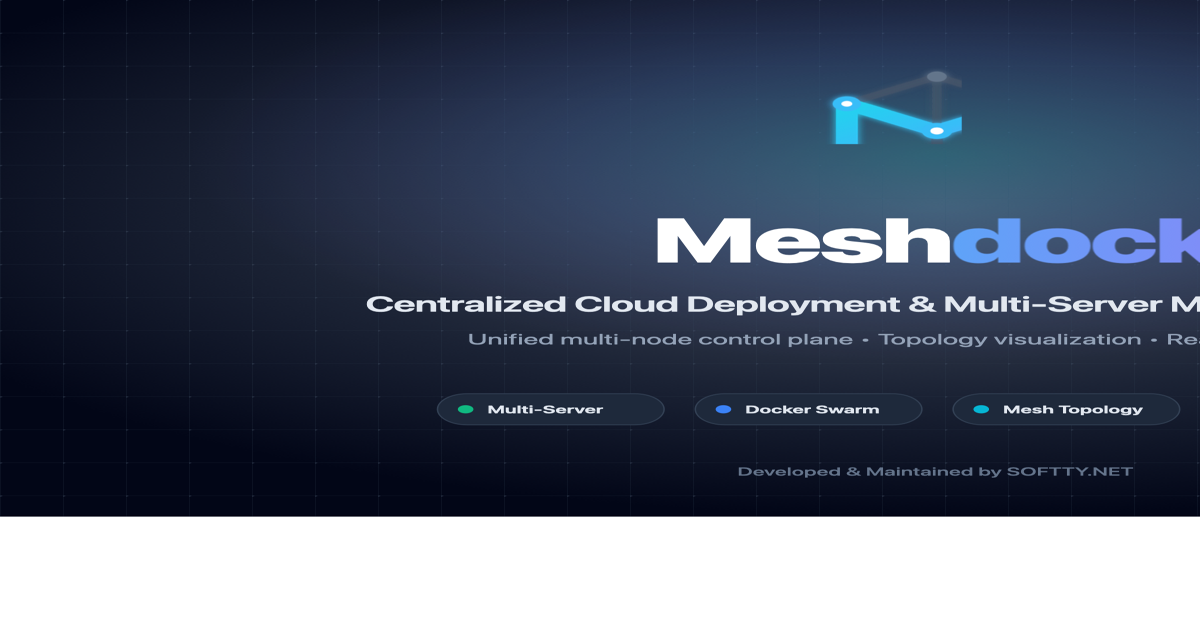
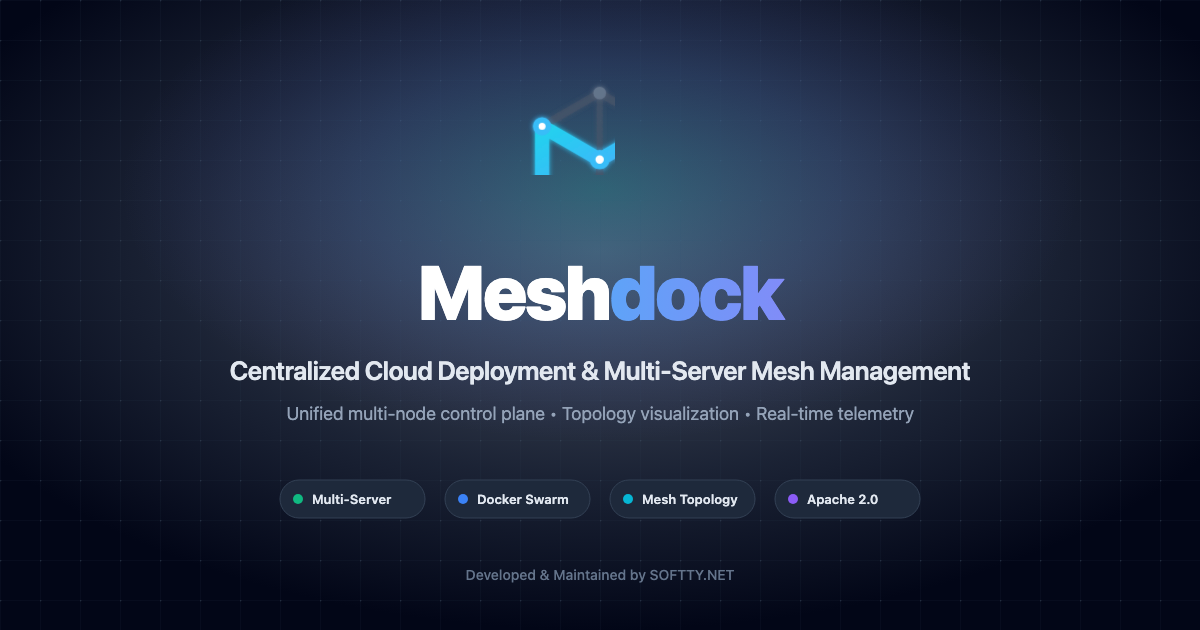
fix(branding): update high-res centered 1200x630 OG image and complete OpenGraph/Twitter metadata

diff --git a/apps/landing/pages/index.tsx b/apps/landing/pages/index.tsx
@@ -148,13 +148,25 @@ export default function LandingPage() {
 					name="description"
 					content="Hệ thống điều phối tập trung dành cho đội ngũ quản trị hạ tầng Cloud, Docker Swarm và hàng chục VPS độc lập. Trực quan hóa Topology, tự động hóa deploy và đo kiểm thời gian thực."
 				/>
+				<meta property="og:type" content="website" />
+				<meta property="og:site_name" content="Meshdock" />
 				<meta property="og:title" content="Meshdock - Cloud Deployment & Multi-Server Mesh Management" />
 				<meta
 					property="og:description"
 					content="Giải pháp quản lý tập trung và giám sát sơ đồ hệ thống đa server phát triển bởi SOFTTY.NET."
 				/>
-				<meta property="og:image" content="/og.png" />
+				<meta property="og:image" content="https://meshdock.softty.net/og.png" />
+				<meta property="og:image:width" content="1200" />
+				<meta property="og:image:height" content="630" />
+				<meta property="og:image:type" content="image/png" />
 				<meta property="og:url" content="https://meshdock.softty.net" />
+				<meta name="twitter:card" content="summary_large_image" />
+				<meta name="twitter:title" content="Meshdock - Cloud Deployment & Multi-Server Mesh Management" />
+				<meta
+					name="twitter:description"
+					content="Giải pháp quản lý tập trung và giám sát sơ đồ hệ thống đa server phát triển bởi SOFTTY.NET."
+				/>
+				<meta name="twitter:image" content="https://meshdock.softty.net/og.png" />
 				<link rel="icon" href="/icon.svg" />
 			</Head>
 

diff --git a/apps/dokploy/pages/_document.tsx b/apps/dokploy/pages/_document.tsx
@@ -40,9 +40,19 @@ export default function Document({
 	return (
 		<Html lang="en" className="font-sans">
 			<Head>
+				<meta property="og:type" content="website" />
+				<meta property="og:site_name" content="Meshdock" />
+				<meta property="og:url" content={baseUrl} />
 				<meta property="og:title" content={title} />
 				<meta property="og:description" content={description} />
 				<meta property="og:image" content={ogImage} />
+				<meta property="og:image:width" content="1200" />
+				<meta property="og:image:height" content="630" />
+				<meta property="og:image:type" content="image/png" />
+				<meta name="twitter:card" content="summary_large_image" />
+				<meta name="twitter:title" content={title} />
+				<meta name="twitter:description" content={description} />
+				<meta name="twitter:image" content={ogImage} />
 				{faviconLightHref ? (
 					<>
 						<link
